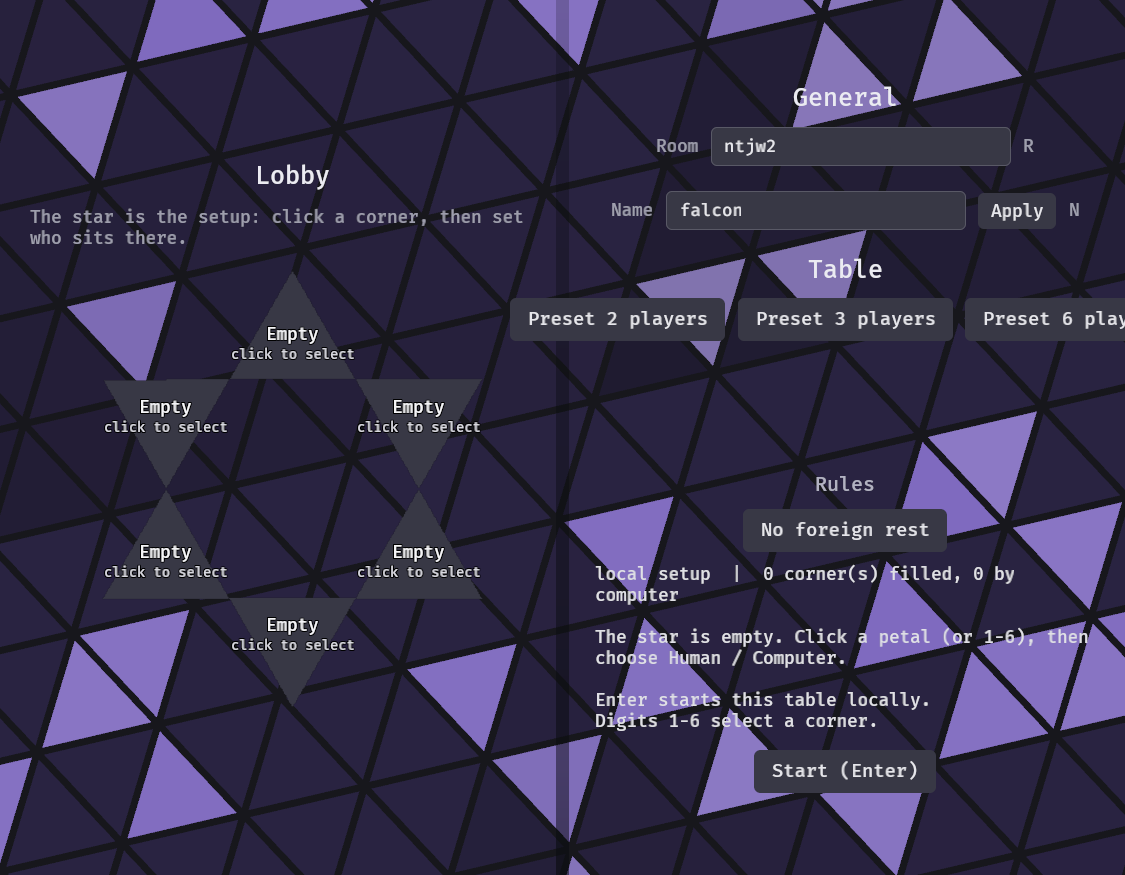
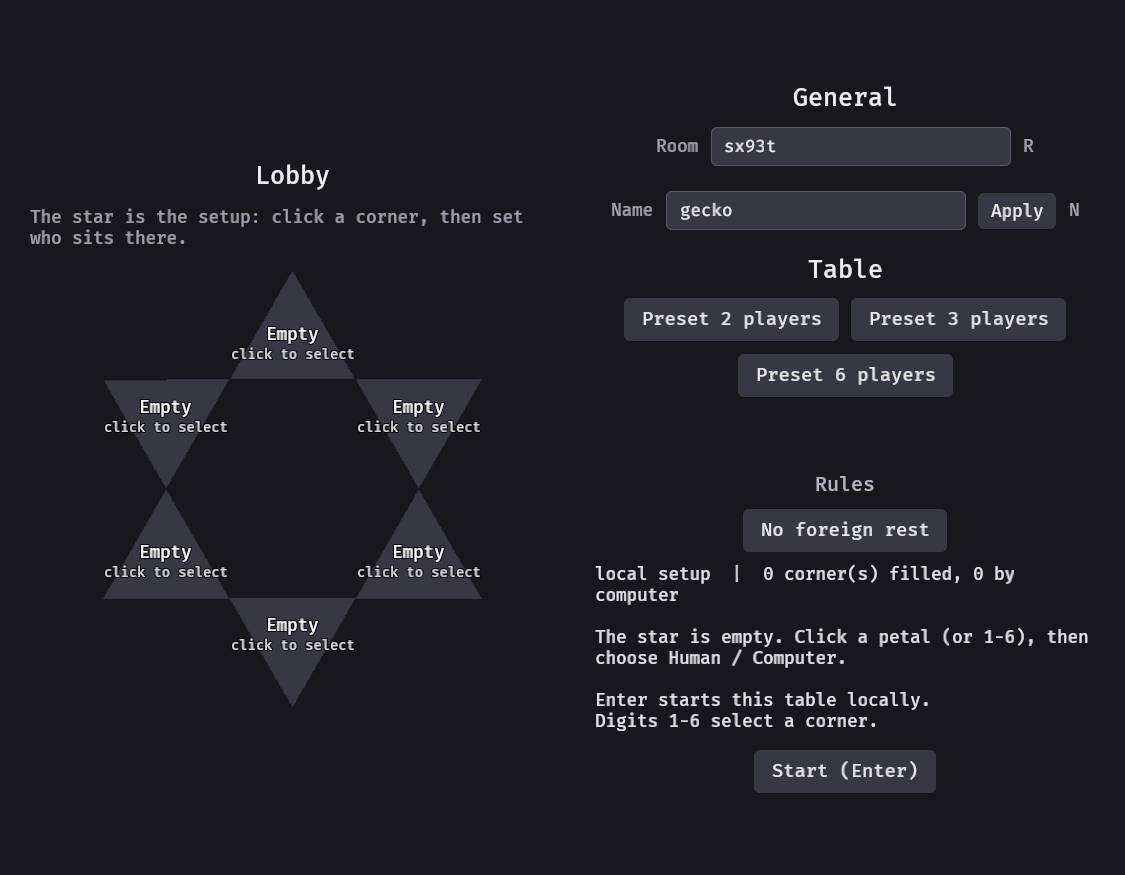
Finish removing the lobby's animated backdrop
The previous commit deleted the backdrop module and its scrim but, by a
botched staging, left the module declaration and plugin behind, so it
does not build. This drops them: the lobby draws its columns straight
over the clear colour, as it did before the field arrived. The README
no longer mentions the field, and its lobby screenshot is retaken.

The camera keeps its Msaa; only the comment's backdrop example goes.

diff --git a/checkers-bevy/src/main.rs b/checkers-bevy/src/main.rs
@@ -28,8 +28,8 @@ use checkers_bevy::replay;
 use checkers_bevy::setup::Seating;
 use checkers_bevy::ui::{button_messages, ui_text};
 use checkers_bevy::{
-    AppState, Selection, Session, audit, format_round_duration, lobby, lobby_backdrop, move_log,
-    net, record, sound, web,
+    AppState, Selection, Session, audit, format_round_duration, lobby, move_log, net, record,
+    sound, web,
 };
 use checkers_core::geometry::{all_holes, camp_of, on_board};
 use checkers_core::law::{LAWS, verify_all};
@@ -85,9 +85,6 @@ fn main() {
         .init_resource::<replay::Replay>()
         .add_plugins((
             lobby::plugin,
-            // The lobby's animated triangle-field backdrop, and the scrim
-            // that keeps the lobby legible over it.
-            lobby_backdrop::plugin,
             sound::plugin,
             button_messages::<ControlButton>,
             // The localhost socket an external agent drives the window
@@ -320,9 +317,7 @@ fn setup(mut commands: Commands) {
     // `Msaa` is named because its absence is invisible and its effect is not.
     // `Camera2d` does not require it, and the 2D pipeline's view-target setup
     // queries it as a required component — a camera without one simply gets
-    // no multisampled target, and *everything* renders aliased. On the lobby's
-    // backdrop, a triangle field that never stops turning and drifting, the
-    // crawling stair-stepped edges read as grain over the whole screen.
+    // no multisampled target, and *everything* renders aliased.
     commands.spawn((Camera2d, Msaa::Sample4, fit_projection()));
 
     // The full law registry is worth its cost once, at startup.

diff --git a/checkers-bevy/src/lib.rs b/checkers-bevy/src/lib.rs
@@ -24,7 +24,6 @@ pub mod agent {
 pub mod ai;
 pub mod board_view;
 pub mod lobby;
-pub mod lobby_backdrop;
 pub mod move_log;
 pub mod net;
 pub mod record;

diff --git a/README.md b/README.md
@@ -17,11 +17,10 @@ cargo run -p checkers-bevy
 Pick a table in the lobby — solo against the engine, hotseat, or a shared room
 over WebRTC — then click a piece and a highlighted hole. Steps and jumps both
 **stage** before they commit; a jump chains one hop at a time, and nothing is
-final until Enter. Every turn is replayed as an animation, the lobby sits on a
-living Game-of-Life triangle field, and the lobby's buttons, text fields, and
-room roster work over the wire.
+final until Enter. Every turn is replayed as an animation, and the lobby's
+buttons, text fields, and room roster work over the wire.
 
-![The lobby, over its animated backdrop](screenshots/lobby.png)
+![The lobby](screenshots/lobby.png)
 
 | Input | Effect |
 |---|---|
